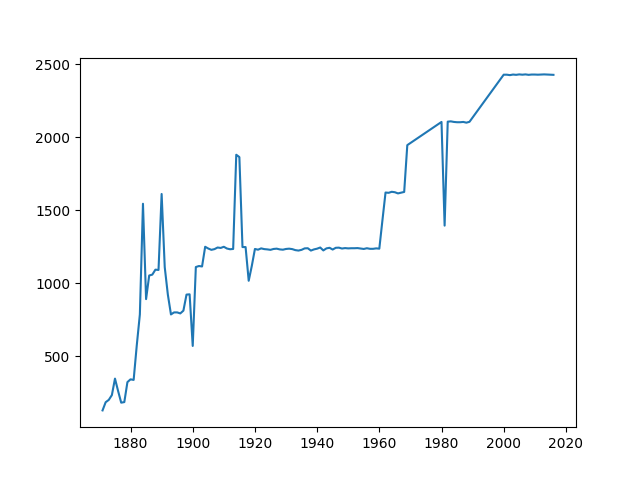
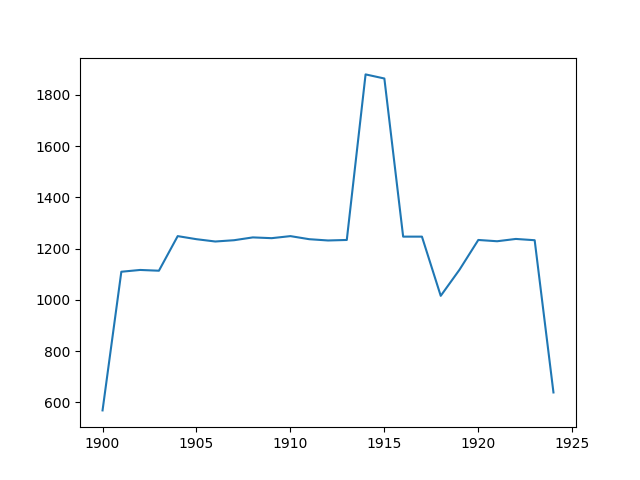
started sanitization for games played / early games

diff --git a/final-project/test/utils/test_processing_utils.py b/final-project/test/utils/test_processing_utils.py
@@ -15,9 +15,10 @@ class ModuleTestCase(unittest.TestCase):
             'h_name_translate': ['team-b'],
             'date_h_duration': [30],
             'date_v_duration': [30],
+            'date_year': 2000
         }
 
-        act_teams = set(get_available_teams(pd.DataFrame(test_input)))
+        act_teams = set(get_available_teams(pd.DataFrame(test_input), min_lifetime=-1, min_games_played_per_year=-1))
         exp_teams = set(['team-a', 'team-b'])
 
         log.debug('act_teams: %s', act_teams)
@@ -30,9 +31,10 @@ class ModuleTestCase(unittest.TestCase):
             'v_name_translate': ['team-b'],
             'date_h_duration': [30],
             'date_v_duration': [0],
+            'date_year': 2000
         }
 
-        act_teams = set(get_available_teams(pd.DataFrame(test_input), 30))
+        act_teams = set(get_available_teams(pd.DataFrame(test_input), min_lifetime=30, min_games_played_per_year=-1))
         exp_teams = set(['team-a'])
 
         log.debug('act_teams: %s', act_teams)
@@ -44,6 +46,8 @@ class ModuleTestCase(unittest.TestCase):
             'date_year': [1884, 1884, 1885, 1886],
             'v_name_translate': ['team-a', 'team-b', 'team-c', 'team-d'],
             'h_name_translate': ['team-c', 'team-c', 'team-b', 'team-e'],
+            'date_v_duration': [30, 30, 30, 30],
+            'date_h_duration': [30, 30, 30, 30],
         }
 
         game_count_stats = extract_game_count(pd.DataFrame(test_input))
@@ -122,6 +126,8 @@ class ModuleTestCase(unittest.TestCase):
             'date_v_duration': [30, 30, 30, 30],
             'date_h_duration': [30, 30, 30, 30],
         }
+        debug_min_games_played_per_year(-1)
+        debug_set_min_team_lifetime_years(-1)
 
         game_count_stats = extract_win_stats(pd.DataFrame(test_input))
 
@@ -168,12 +174,12 @@ class ModuleTestCase(unittest.TestCase):
             'team-c': 0,
         }
 
-        self.assertEqual(game_count_stats['home_games_won_per_year'], exp_home_games_won_per_year)
-        self.assertEqual(game_count_stats['home_games_won_total'], exp_home_games_won_total)
-        self.assertEqual(game_count_stats['visiting_games_won_per_year'], exp_visiting_games_won_per_year)
-        self.assertEqual(game_count_stats['visiting_games_won_total'], exp_visiting_games_won_total)
-        self.assertEqual(game_count_stats['overall_games_won_per_year'], exp_overall_games_won_per_year)
-        self.assertEqual(game_count_stats['overall_games_won_total'], exp_overall_games_won_total)
+        self.assertEqual(exp_home_games_won_per_year, game_count_stats['home_games_won_per_year'])
+        self.assertEqual(exp_home_games_won_total, game_count_stats['home_games_won_total'])
+        self.assertEqual(exp_visiting_games_won_per_year, game_count_stats['visiting_games_won_per_year'])
+        self.assertEqual(exp_visiting_games_won_total, game_count_stats['visiting_games_won_total'])
+        self.assertEqual(exp_overall_games_won_per_year, game_count_stats['overall_games_won_per_year'])
+        self.assertEqual(exp_overall_games_won_total, game_count_stats['overall_games_won_total'])
 
     def test_valid_extract_win_stats2(self):
         test_input = {

diff --git a/final-project/src/utils/processing_utils.py b/final-project/src/utils/processing_utils.py
@@ -3,15 +3,18 @@ from src.utils.datastructure_utils import *
 from src.utils.logging_config import log
 
 MIN_TEAM_LIFETIME_YEARS = 10
+MIN_GAMES_PLAYED_PER_YEAR = 15
 
 
-def get_available_teams(df, min_lifetime=-1):
-    h_teams = np.array(df[(df['date_h_duration'] >= min_lifetime)]['h_name_translate'])
-    v_teams = np.array(df[(df['date_v_duration'] >= min_lifetime)]['v_name_translate'])
-    return np.unique(np.concatenate((h_teams, v_teams)))
+def debug_set_min_team_lifetime_years(value):
+    MIN_TEAM_LIFETIME_YEARS = value
 
 
-def extract_game_count(df):
+def debug_min_games_played_per_year(value):
+    MIN_GAMES_PLAYED_PER_YEAR = value
+
+
+def extract_game_count(df, min_lifetime=MIN_TEAM_LIFETIME_YEARS):
     """
     extracting game count stats\n
     - games_per_year_per_team\n
@@ -32,7 +35,10 @@ def extract_game_count(df):
     home_games_per_year_per_team = {}
     visiting_games_per_year_per_team = {}
 
-    teams = get_available_teams(df)
+    h_teams = np.array(df[(df['date_h_duration'] >= min_lifetime)]['h_name_translate'])
+    v_teams = np.array(df[(df['date_v_duration'] >= min_lifetime)]['v_name_translate'])
+    teams = np.unique(np.concatenate((h_teams, v_teams)))
+
     for curr_team in teams:
         home_games_per_year_per_team[curr_team] = \
             df[(df['h_name_translate'] == curr_team)] \
@@ -61,6 +67,23 @@ def extract_game_count(df):
     }
 
 
+def get_available_teams(df, min_lifetime=MIN_TEAM_LIFETIME_YEARS, min_games_played_per_year=MIN_GAMES_PLAYED_PER_YEAR):
+    game_count_stats = extract_game_count(df, min_lifetime=min_lifetime)
+    games_per_year_per_team = game_count_stats['games_per_year_per_team']
+
+    teams_playing_min_count = []
+    for curr_team, games_per_year in games_per_year_per_team.items():
+        min_year = min(games_per_year, key=games_per_year.get)
+        min_game_count = games_per_year[min_year]
+
+        # if min_game_count >= min_games_played_per_year:
+        #     log.debug('min in if: %s - %s, %s', curr_team, min_game_count, min_games_played_per_year)
+        teams_playing_min_count.append(curr_team)
+
+    log.debug('teams_playing_min_count: %s', teams_playing_min_count)
+    return teams_playing_min_count
+
+
 def extract_win_stats(df):
     """
     extracting win stats\n
@@ -82,7 +105,7 @@ def extract_win_stats(df):
     overall_games_won_per_year = {}
     overall_games_won_total = {}
 
-    teams = get_available_teams(df, MIN_TEAM_LIFETIME_YEARS)
+    teams = get_available_teams(df)
     game_count_stats = extract_game_count(df)
 
     for curr_team in teams:

diff --git a/final-project/src/utils/graph_data_io.py b/final-project/src/utils/graph_data_io.py
@@ -10,6 +10,8 @@ GAME_LOGS_DATA_WORLD = '../datasets/retrosheets/game-logs_combined/game_logs_dat
 GAME_LOGS_ABBREVIATIONS = '../datasets/retrosheets/game-logs_combined/TEAMABR.TXT'
 OUTPUT_DIR = '../graphs'
 
+START_YEAR = 1900
+
 _dtypeDict = {
     'date': str,
     'number_of_game': np.uint32,
@@ -196,8 +198,14 @@ def _empty_flags_for_empty_cells(gamelog_df):
     return gamelog_df
 
 
+def _remove_first_incomplete_years(gameslog_df):
+    # return gameslog_df[int(gameslog_df['date']) >= 18900000]
+    return gameslog_df[gameslog_df['date'].apply(lambda x: int(x[:4])) >= START_YEAR]
+    # return gameslog_df[gameslog_df['date_year'] >= 1890]
+
 def _sanitize_df(gamelog_df):
     gamelog_df = _empty_flags_for_empty_cells(gamelog_df)
+    gamelog_df = _remove_first_incomplete_years(gamelog_df)
     return gamelog_df
 
 

diff --git a/final-project/src/vis_main.py b/final-project/src/vis_main.py
@@ -7,8 +7,8 @@ df = read_game_logs()
 # export_graph(score_plot.v_score_count, df)
 # export_graph(score_plot.h_score_count, df)
 # export_graph(score_plot.vh_score_comparison, df)
-export_graph(score_plot.winning_teams, df)
+# export_graph(score_plot.winning_teams, df)
 #
 # export_graph(event_plot.data_per_year, df)
 # export_graph(event_plot.attendance_per_year, df)
-# export_graph(event_plot.games_per_year, df)
+export_graph(event_plot.games_per_year_overall, df)

diff --git a/final-project/src/plots/meta/event_plot.py b/final-project/src/plots/meta/event_plot.py
@@ -27,7 +27,7 @@ def data_per_year(df):
     plt.plot(data_per_year)
 
 
-def games_per_year(df):
+def games_per_year_overall(df):
     data = extract_game_count(df)['games_per_year_overall']
     log.debug('games_per_year: %s', data)
     plt.plot(list(data.keys()), list(data.values()))

diff --git a/final-project/src/plots/score/score_plot.py b/final-project/src/plots/score/score_plot.py
@@ -54,6 +54,9 @@ def vh_score_comparison(df):
 
 
 def winning_teams(df):
+    bug = df[df['v_name_translate'] == 'Washington - Nationals']
+    bug2 = df[df['h_name_translate'] == 'Washington - Nationals']
+
     win_stats = extract_win_stats(df)
     # win_avg = calc_win_averages(df)
 
